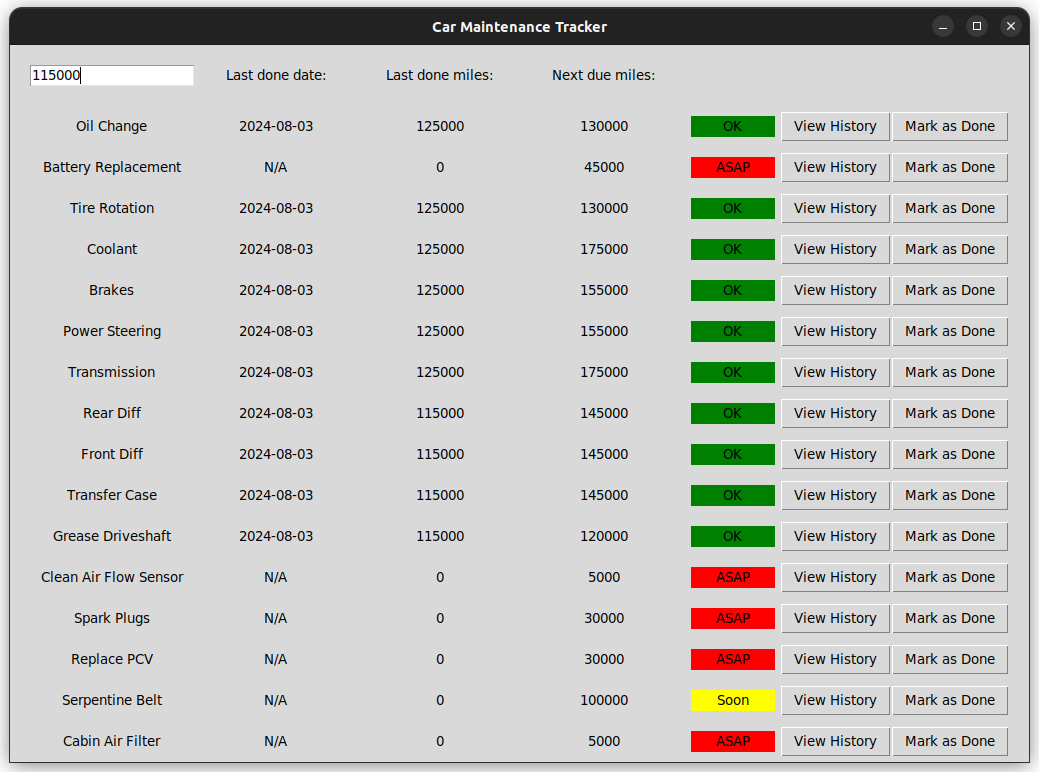
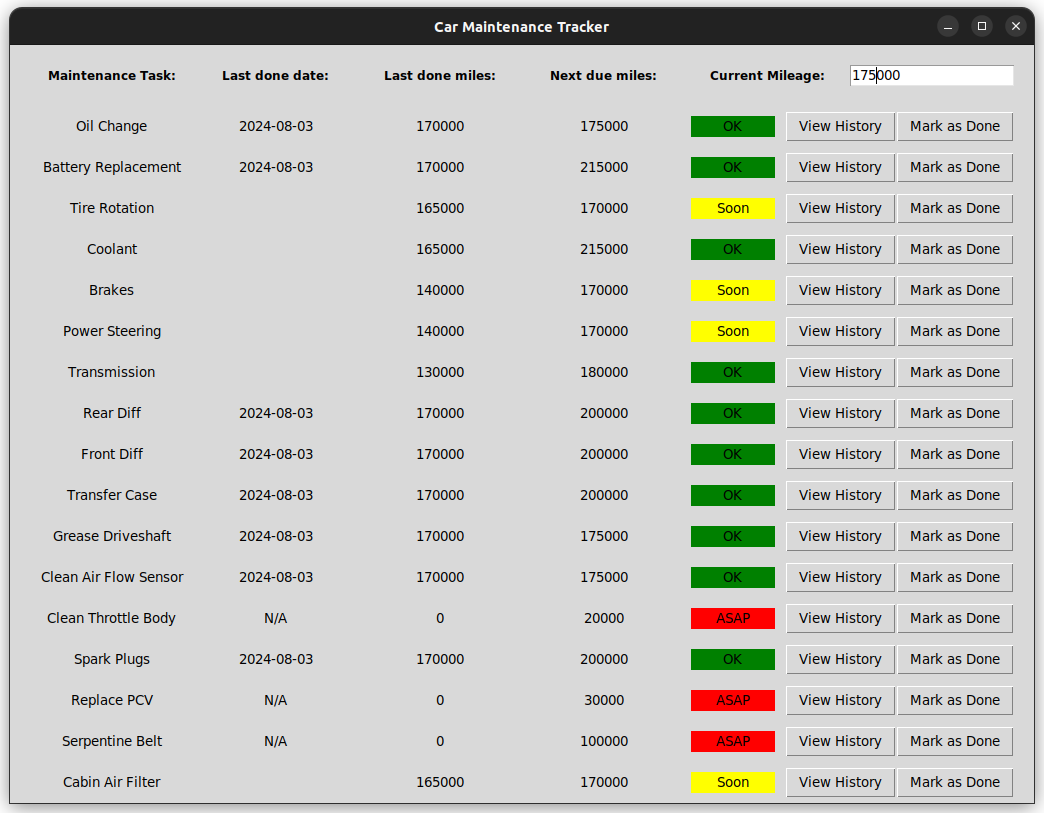
updated layout and code formatting

diff --git a/maintenanceTracker.py b/maintenanceTracker.py
@@ -1,12 +1,14 @@
 #!/bin/python3
 import tkinter as tk
-from tkinter import ttk, messagebox
+from tkinter import ttk
+import tkinter.font as font
 import json
 from datetime import datetime
 import sqlite3
 
 FIRST_COLUMN_WIDTH = 20
 COLUMN_WIDTH = 20
+
 
 class CarMaintenanceApp:
     def __init__(self, root):
@@ -18,13 +20,13 @@ class CarMaintenanceApp:
         self.update_task_status()
 
     def load_config(self):
-        with open('config.json', 'r') as file:
-            self.config = json.load(file)['maintenance_tasks']
+        with open("config.json", "r") as file:
+            self.config = json.load(file)["maintenance_tasks"]
 
     def get_latest_mileage(self):
-        conn = sqlite3.connect('car_maintenance.db')
+        conn = sqlite3.connect("car_maintenance.db")
         cursor = conn.cursor()
-        cursor.execute('SELECT MAX(mileage) FROM maintenance')
+        cursor.execute("SELECT MAX(mileage) FROM maintenance")
         result = cursor.fetchone()
         conn.close()
         return result[0] if result[0] is not None else 0
@@ -32,21 +34,38 @@ class CarMaintenanceApp:
     def create_widgets(self):
         baseframe = tk.Frame(self.root, padx=COLUMN_WIDTH, pady=COLUMN_WIDTH)
         baseframe.pack(fill=tk.X)
+        bold_font = font.Font(weight="bold", size=9)
 
+        tk.Label(
+            baseframe,
+            font=bold_font,
+            text="Maintenance Task:",
+            width=FIRST_COLUMN_WIDTH,
+        ).pack(side=tk.LEFT)
+        tk.Label(
+            baseframe, font=bold_font, text="Last done date:", width=COLUMN_WIDTH
+        ).pack(side=tk.LEFT)
+        tk.Label(
+            baseframe, font=bold_font, text="Last done miles:", width=COLUMN_WIDTH
+        ).pack(side=tk.LEFT)
+        tk.Label(
+            baseframe, font=bold_font, text="Next due miles:", width=COLUMN_WIDTH
+        ).pack(side=tk.LEFT)
+        tk.Label(
+            baseframe, font=bold_font, text="Current Mileage:", width=COLUMN_WIDTH
+        ).pack(side=tk.LEFT)
         self.mileage_entry = ttk.Entry(baseframe, width=FIRST_COLUMN_WIDTH)
         self.mileage_entry.pack(side=tk.LEFT)
         self.mileage_entry.insert(0, str(self.current_mileage.get()))
         self.mileage_entry.bind("<Return>", lambda event: self.update_mileage())
 
-        tk.Label(baseframe, text="Last done date:", width=COLUMN_WIDTH).pack(side=tk.LEFT)
-        tk.Label(baseframe, text="Last done miles:", width=COLUMN_WIDTH).pack(side=tk.LEFT)
-        tk.Label(baseframe, text="Next due miles:", width=COLUMN_WIDTH).pack(side=tk.LEFT)
-
         self.task_frames = []
         for task in self.config:
             frame = tk.Frame(self.root, padx=COLUMN_WIDTH, pady=5)
             frame.pack(fill=tk.X)
-            tk.Label(frame, text=task['task'], width=FIRST_COLUMN_WIDTH).pack(side=tk.LEFT)
+            tk.Label(frame, text=task["task"], width=FIRST_COLUMN_WIDTH).pack(
+                side=tk.LEFT
+            )
             self.create_task_status_widgets(frame, task)
             self.task_frames.append(frame)
 
@@ -59,8 +78,12 @@ class CarMaintenanceApp:
         next_due_label.pack(side=tk.LEFT)
         status_label = tk.Label(frame, text="Status", width=10)
         status_label.pack(side=tk.LEFT, padx=5)
-        tk.Button(frame, text="Mark as Done", command=lambda t=task: self.mark_as_done(t)).pack(side=tk.RIGHT)
-        tk.Button(frame, text="View History", command=lambda t=task: self.view_history(t)).pack(side=tk.RIGHT)
+        tk.Button(
+            frame, text="Mark as Done", command=lambda t=task: self.mark_as_done(t)
+        ).pack(side=tk.RIGHT)
+        tk.Button(
+            frame, text="View History", command=lambda t=task: self.view_history(t)
+        ).pack(side=tk.RIGHT)
         frame.last_done_date_label = last_done_date_label
         frame.last_done_miles_label = last_done_miles_label
         frame.next_due_label = next_due_label
@@ -69,40 +92,46 @@ class CarMaintenanceApp:
     def mark_as_done(self, task):
         date = datetime.now().strftime("%Y-%m-%d")
         mileage = int(self.current_mileage.get())
-        conn = sqlite3.connect('car_maintenance.db')
+        conn = sqlite3.connect("car_maintenance.db")
         cursor = conn.cursor()
-        cursor.execute('INSERT INTO maintenance (task, date, mileage) VALUES (?, ?, ?)', (task['task'], date, mileage))
+        cursor.execute(
+            "INSERT INTO maintenance (task, date, mileage) VALUES (?, ?, ?)",
+            (task["task"], date, mileage),
+        )
         conn.commit()
         conn.close()
         self.update_task_status()
 
     def update_task_status(self):
-        conn = sqlite3.connect('car_maintenance.db')
+        conn = sqlite3.connect("car_maintenance.db")
         cursor = conn.cursor()
         for frame, task in zip(self.task_frames, self.config):
-            cursor.execute('SELECT date, mileage FROM maintenance WHERE task = ? ORDER BY id DESC LIMIT 1', (task['task'],))
+            cursor.execute(
+                "SELECT date, mileage FROM maintenance WHERE task = ? ORDER BY id DESC LIMIT 1",
+                (task["task"],),
+            )
             result = cursor.fetchone()
             if result:
                 last_done_date, last_done_mileage = result
                 frame.last_done_date_label.config(text=last_done_date)
                 frame.last_done_miles_label.config(text=last_done_mileage)
-                next_due_mileage = last_done_mileage + task['frequency_miles']
+                next_due_mileage = last_done_mileage + task["frequency_miles"]
                 frame.next_due_label.config(text=str(next_due_mileage))
-                self.update_status_label(frame,  last_done_mileage, task)
+                self.update_status_label(frame, last_done_mileage, task)
             else:
                 frame.last_done_date_label.config(text="N/A")
                 frame.last_done_miles_label.config(text="0")
                 last_done_mileage = 0
-                next_due_mileage = last_done_mileage + task['frequency_miles']
+                next_due_mileage = last_done_mileage + task["frequency_miles"]
                 frame.next_due_label.config(text=str(next_due_mileage))
-                self.update_status_label(frame,  last_done_mileage, task)
+                self.update_status_label(frame, last_done_mileage, task)
         conn.close()
 
     def update_status_label(self, frame, last_done_mileage, task):
         current_mileage = int(self.current_mileage.get())
-        if current_mileage >= last_done_mileage + task['frequency_max_miles']:
+        if current_mileage >= last_done_mileage + task["frequency_max_miles"]:
             frame.status_label.config(text="ASAP", bg="red")
-        elif current_mileage >= last_done_mileage + task['frequency_miles']:
+        elif current_mileage >= last_done_mileage + task["frequency_miles"]:
             frame.status_label.config(text="Soon", bg="yellow")
         else:
             frame.status_label.config(text="OK", bg="green")
@@ -118,9 +147,12 @@ class CarMaintenanceApp:
             print("Invalid mileage input")
 
     def view_history(self, task):
-        conn = sqlite3.connect('car_maintenance.db')
+        conn = sqlite3.connect("car_maintenance.db")
         cursor = conn.cursor()
-        cursor.execute('SELECT date, mileage FROM maintenance WHERE task = ? ORDER BY id DESC', (task['task'],))
+        cursor.execute(
+            "SELECT date, mileage FROM maintenance WHERE task = ? ORDER BY id DESC",
+            (task["task"],),
+        )
         records = cursor.fetchall()
         conn.close()
 
@@ -128,7 +160,10 @@ class CarMaintenanceApp:
         history_window.title(f"{task['task']} History")
 
         for record in records:
-            tk.Label(history_window, text=f"Date: {record[0]}, Mileage: {record[1]}").pack()
+            tk.Label(
+                history_window, text=f"Date: {record[0]}, Mileage: {record[1]}"
+            ).pack()
+
 
 if __name__ == "__main__":
     root = tk.Tk()

diff --git a/dbSetup.py b/dbSetup.py
@@ -1,18 +1,22 @@
 #!/bin/python3
 import sqlite3
 
+
 def setup_database():
-    conn = sqlite3.connect('car_maintenance.db')
+    conn = sqlite3.connect("car_maintenance.db")
     cursor = conn.cursor()
-    cursor.execute('''
+    cursor.execute(
+        """
         CREATE TABLE IF NOT EXISTS maintenance (
             id INTEGER PRIMARY KEY AUTOINCREMENT,
             task TEXT NOT NULL,
             date TEXT NOT NULL,
             mileage INTEGER NOT NULL
         )
-    ''')
+    """
+    )
     conn.commit()
     conn.close()
+
 
 setup_database()

diff --git a/README.md b/README.md
@@ -1,17 +1,13 @@
 # Car Maintenance Tracking Application
 
-This python application can be used to keep track of your regular car maintenance items. The application
-manages a data base which will keep track of the milage and date of when you last performed the required
-maintenance and then indicate if this action needs to be taken again soon or not. Simply type in your
-current milage into the upper left corner and then hit enter and it will indicate what actions need to be taken.
+This python application can be used to keep track of your regular car maintenance items. The application manages a data base which will keep track of the milage and date of when you last performed the required maintenance and then indicate if this action needs to be taken again soon or not. Simply type in your current milage into the upper left corner and then hit enter and it will indicate what actions need to be taken.
 
 ![alt text](docs/guiImage.png)
 
 ## Setup
 First run the dbSetup.py script to initialize your database file. Then modify the config.json file to contain a list of regular maintenance tasks along with their service intervals. ``{"task": "Oil Change", "frequency_miles": 5000, "frequency_max_miles": 7500},`` The ``frequency_miles`` indicates idealy how often you should be doing this task, if the mileage since this task was last preformed is over this number the status box will turn yellow and indicate "Soon". The ``frequency_max_miles`` indicates the max amount of miles that should be allowed to elapse before doing this task, if the mileage since this task was last preformed is over this number the status box will turn red and indicate "ASAP".
 
-The current configuration of this application is set to mirror the recommended maintenance for a 2009 Toyota
-Tacoma.
+The current configuration of this application is set to mirror the recommended maintenance for a 2009 Toyota Tacoma.
 
 ![alt text](docs/quickRef.png)
 This table was taken from this forum post https://www.tacomaworld.com/threads/2nd-gen-diy-maintenance-quick-reference-guide.438945/
